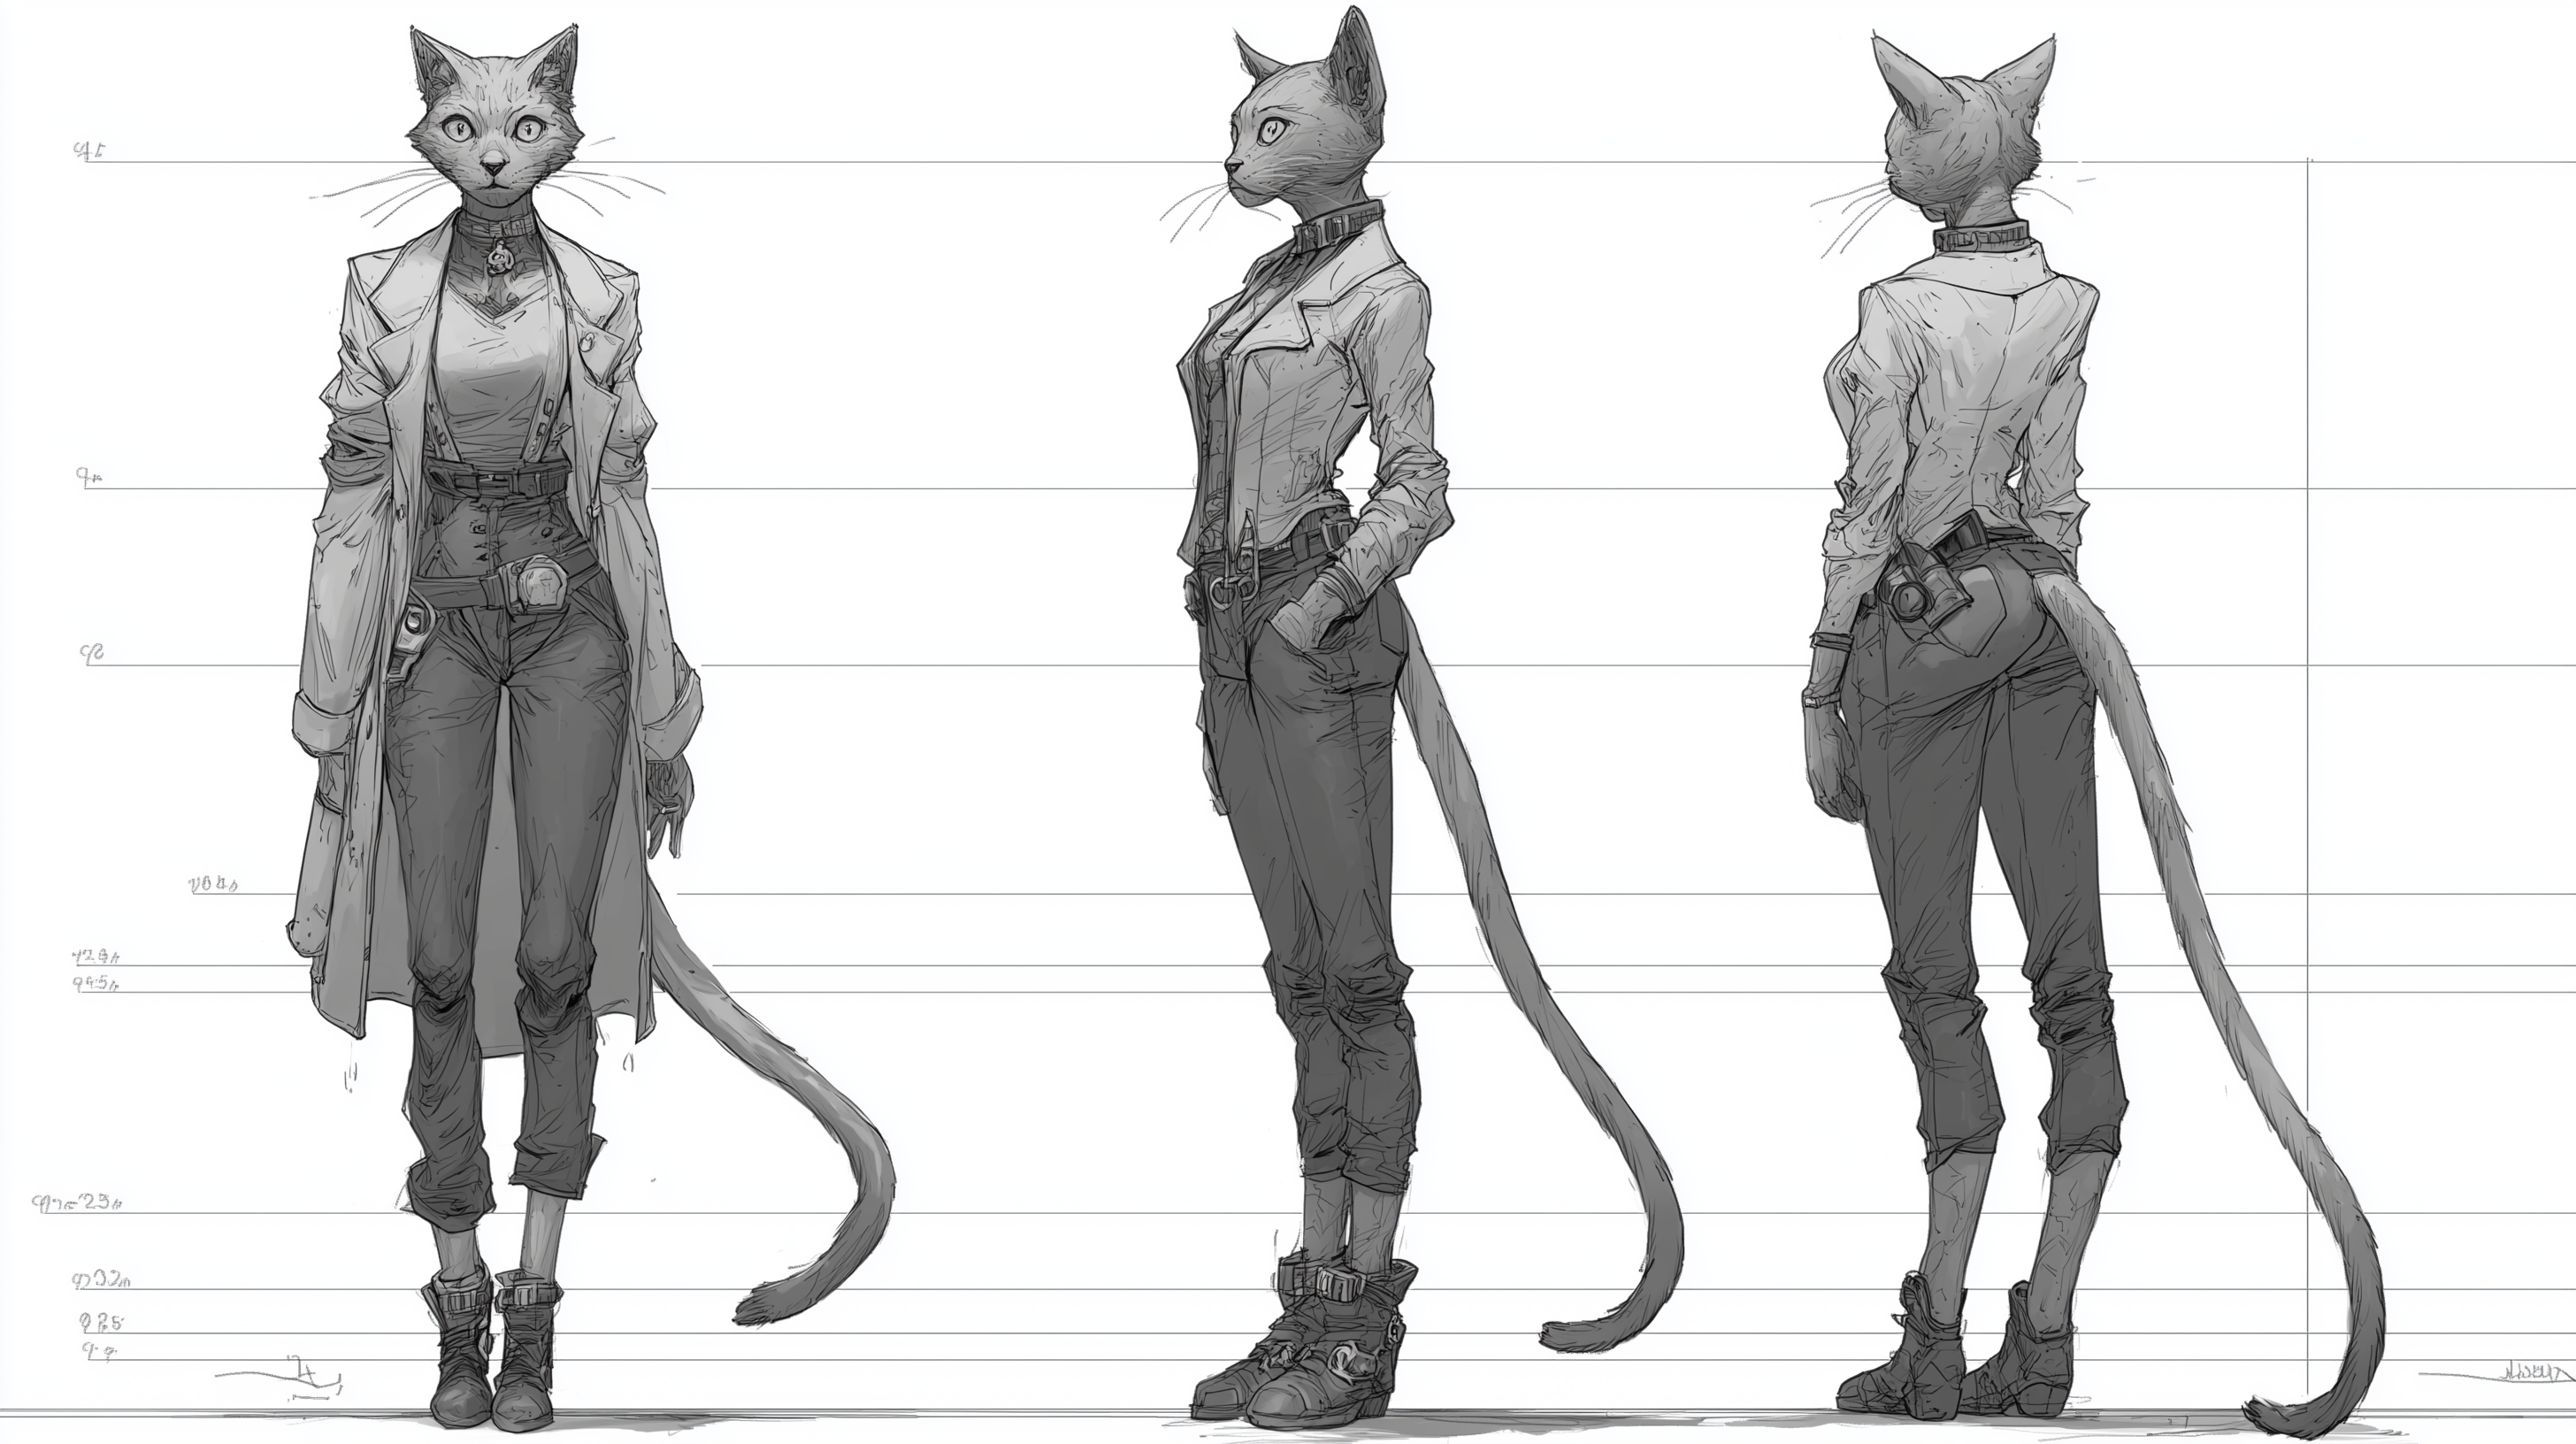
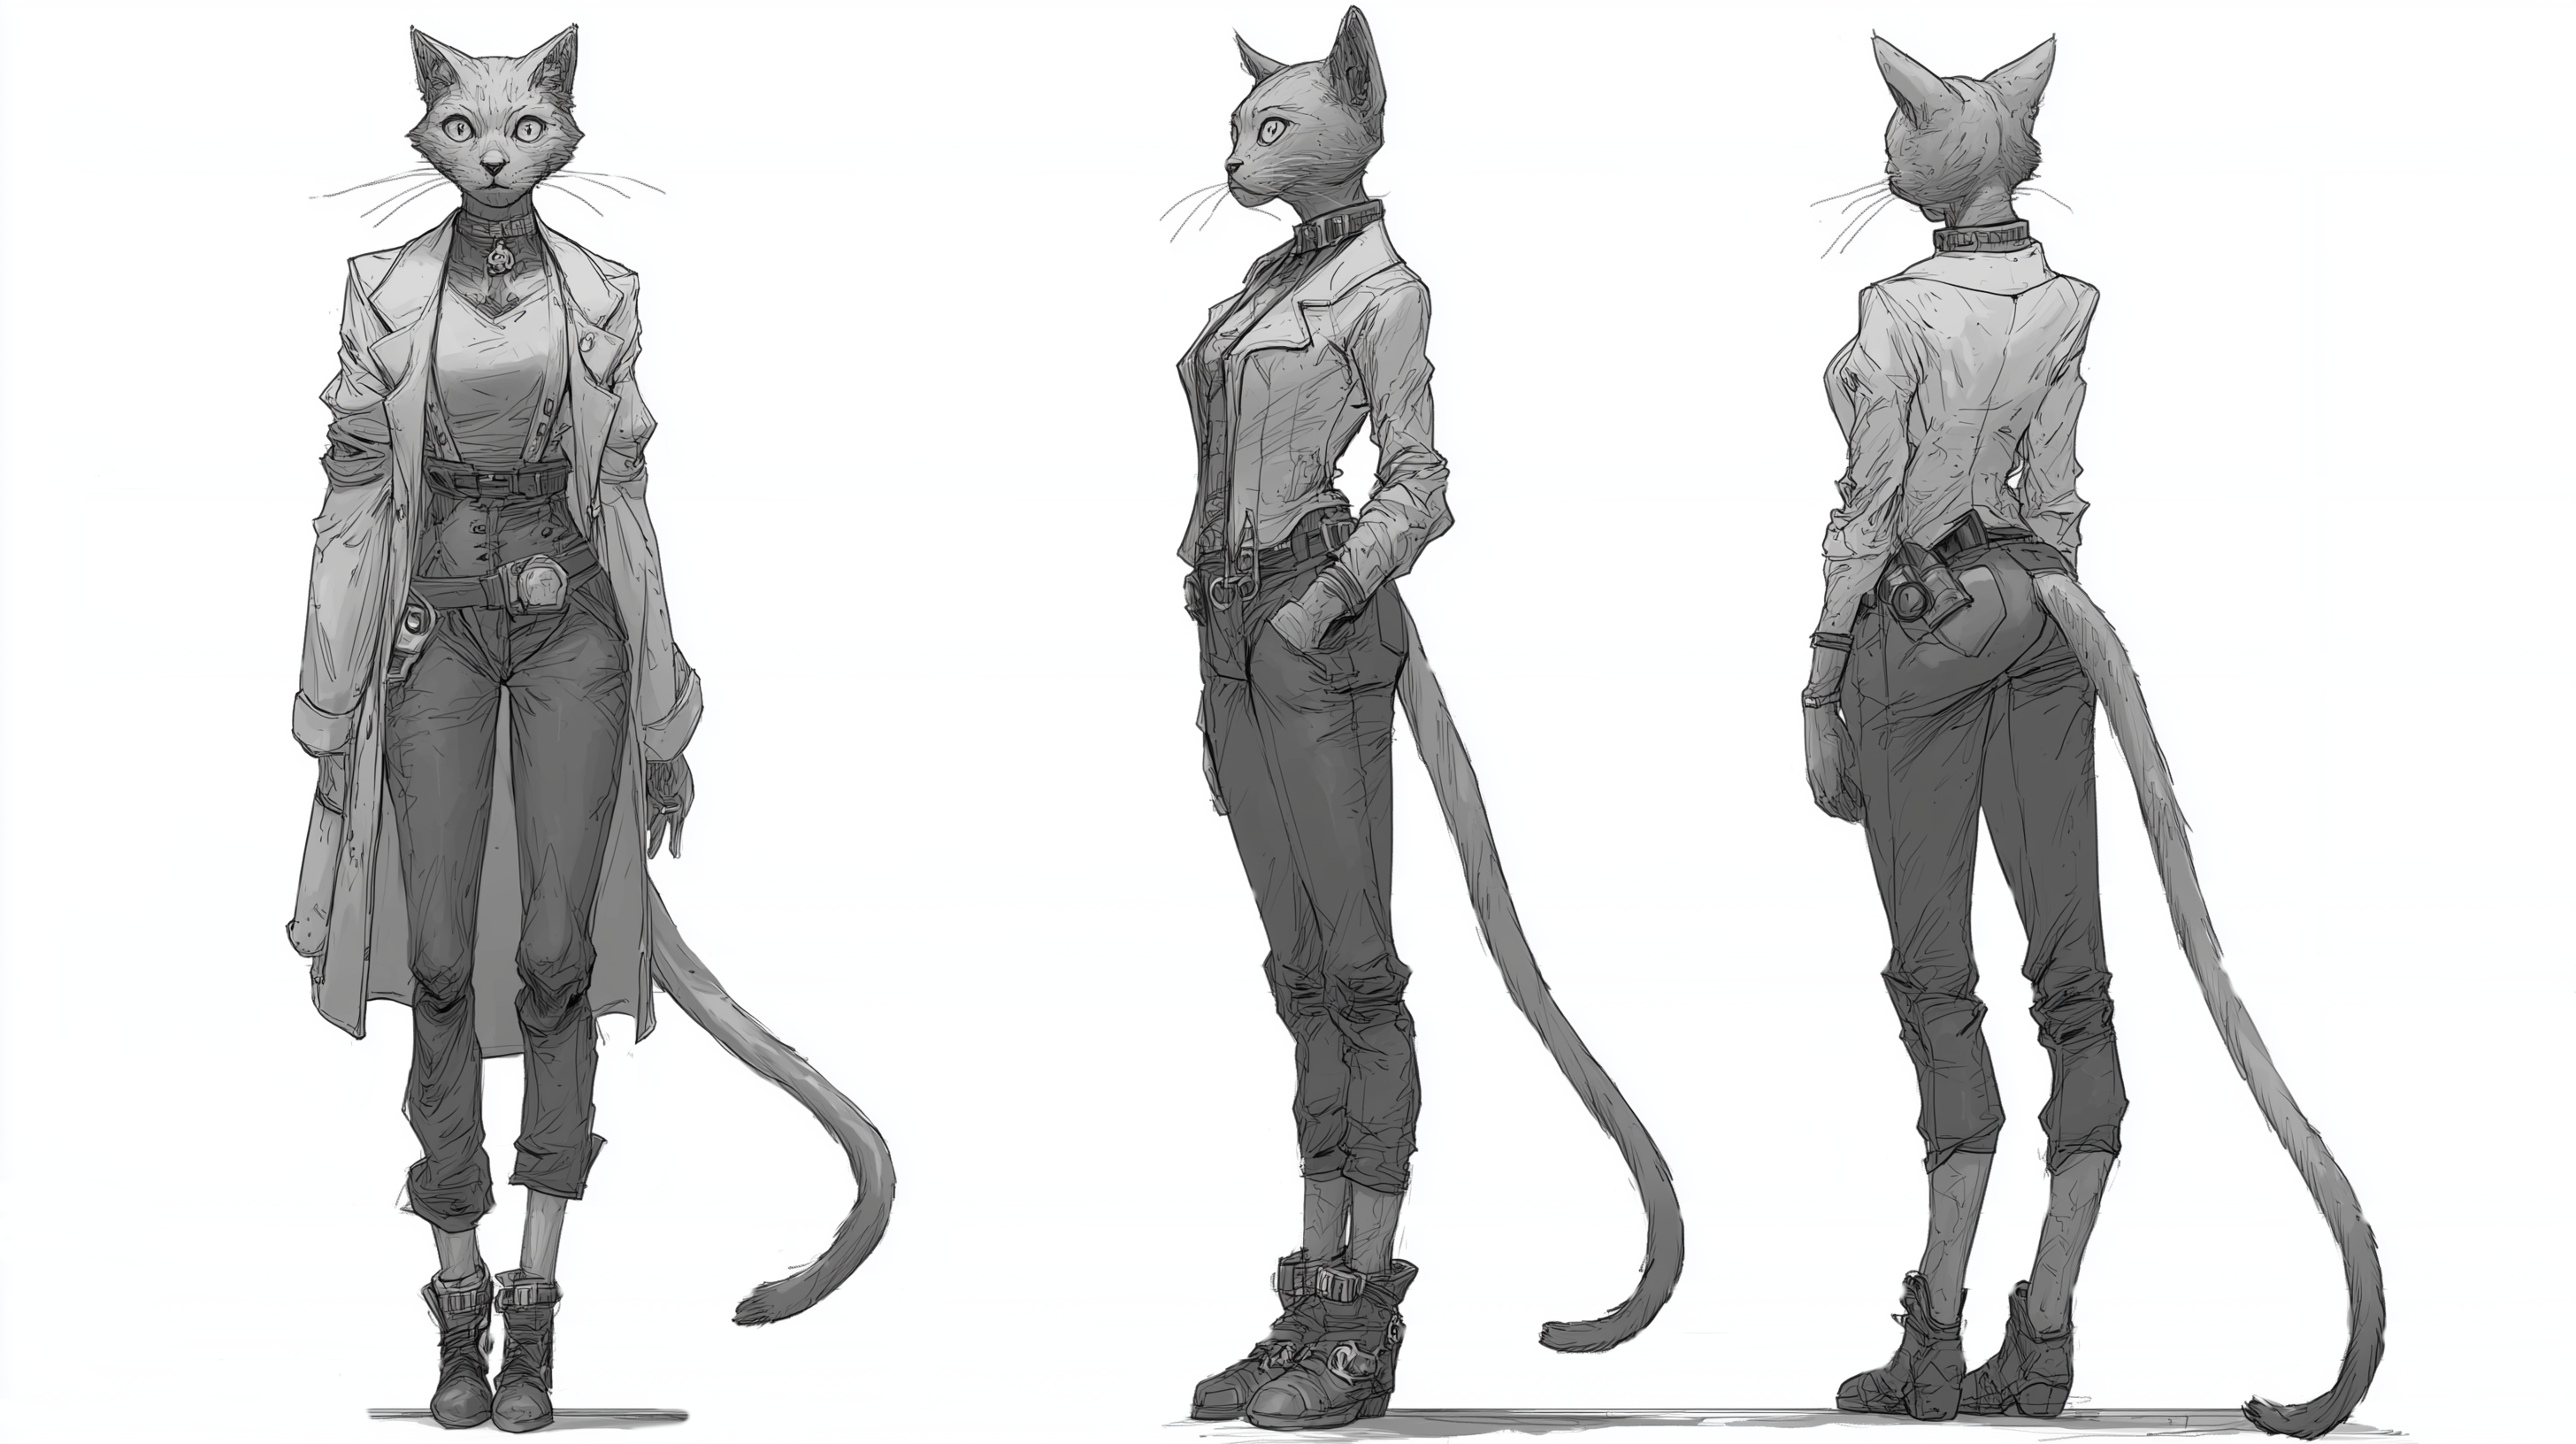
images des races

diff --git a/Logyum/Races/Marcadur.md b/Logyum/Races/Marcadur.md
@@ -1,4 +1,4 @@
-> [!info]
+> [!info]
 > ![[illustration_race.png|220]]
 > ###### Marcadur
 > **Nom endonyme :** Marcadur
@@ -56,6 +56,8 @@ banquet marcadur on boit quoi on mange quoi
 Alcool d’un fruit arbre anciennement commun à [[Sol-Or]], l’alcool est vert et il est très sec ce qui le marie très bien avec un [[pruya]] fourré aux champignons, qui accompagne très régulièrement ces repas.
 # Apparence & Design
 Des humains rien de plus simple.
+![[marcadur_male.png]]
+![[marcadur_female.png]]
 # Personnalités marquantes
 => Jean Eud la pierre
 fils de son père Pascal Diamant et sa mère Marina Cristal, il part à l'aventure dans le but d'en savoir plus sur les créateurs du tabouret d'argent (tabouret qui permet d’être entre les deux mondes (celui des [[ogahon]])) fait de la matière du mur, gardé pendant des siècles car mit beaucoup de temps à sculpter. Fait par les marcadur mais commandé par [[Moorhi]], objectif = couronne mais ogahon a vu ça comme un tabouret. Infusé par les ogahon, garder car symbole de réconciliation des deux nations. Jean eud la pierre veut voir Pépé Pierrick c’est pour ça qu’il cherche ce tabouret. Pépé à fait crack crack avec une horlogère, pépé est en faite pas mort.

diff --git a/Logyum/Idées non rangées.md b/Logyum/Idées non rangées.md
@@ -1,4 +1,4 @@
-**Anti page blanche :** [https://perchance.org/53yixkvwms](https://perchance.org/53yixkvwms) wC5yFaVl7MGeDIPvkii9
+**Anti page blanche :** [https://perchance.org/53yixkvwms](https://perchance.org/53yixkvwms) wC5yFaVl7MGeDIPvkii9
 
 ---
 

diff --git a/Logyum/Races/Felire.md b/Logyum/Races/Felire.md
@@ -1,4 +1,4 @@
-> [!info]
+> [!info]
 > ![[illustration_race.png|220]]
 > ###### Felire
 > **Nom endonyme :** XXXX

diff --git a/Logyum/Races/Horloger.md b/Logyum/Races/Horloger.md
@@ -1,4 +1,4 @@
-> [!info]
+> [!info]
 > ![[illustration_race.png|220]]
 > ###### Horloger
 > **Nom endonyme :** XXXX

diff --git a/Logyum/Races/Manhund.md b/Logyum/Races/Manhund.md
@@ -1,4 +1,4 @@
-> [!info]
+> [!info]
 > ![[illustration_race.png|220]]
 > ###### Manhund
 > **Nom endonyme :** Manhund

diff --git a/Logyum/Topologies/Nations/Kaorim.md b/Logyum/Topologies/Nations/Kaorim.md
@@ -1,4 +1,4 @@
-> [!info]
+> [!info]
 > ![[drapeau.png|220]]
 > ![[emblême.png|220]]
 > ###### Kaorim

diff --git a/Logyum/Topologies/Nations/Karnaa.md b/Logyum/Topologies/Nations/Karnaa.md
@@ -1,4 +1,4 @@
-> [!info]
+> [!info]
 > ![[drapeau.png|220]]
 > ![[emblême.png|220]]
 > ###### Karnaa

diff --git a/Logyum/Topologies/Topologies.md b/Logyum/Topologies/Topologies.md
@@ -1,4 +1,4 @@
-# Le Monde
+# Le Monde
 ## Le Noyau
 Le Noyau est une boule qui a une face sombre et une autre éclairée, ces deux faces servent respectivement de soleil et de lune. Un nuage de gaz englobe les alentours du noyau, il est apparu depuis la fission de la coquille. L’image ci dessous est une potentiel représentation du noyau :
 